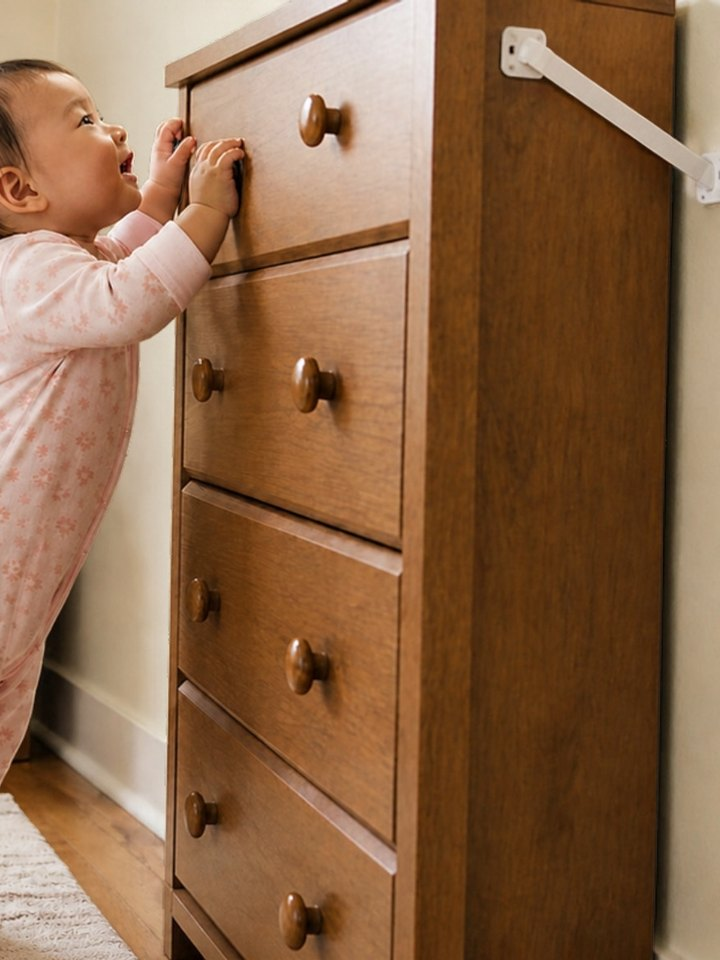
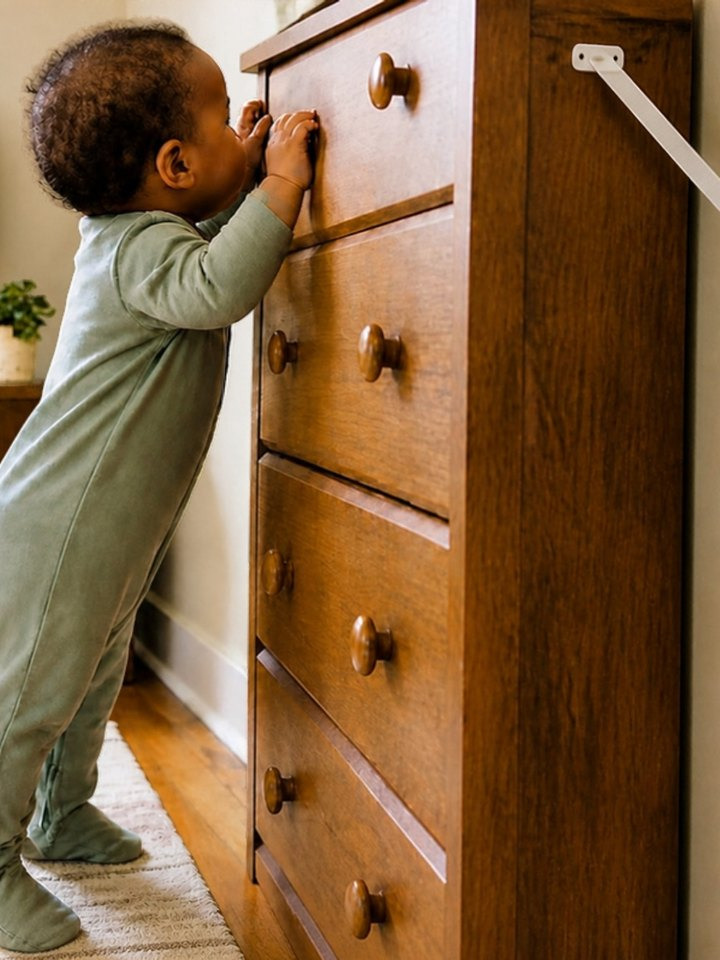
Safety: dresser before/after uses the new neutral baby
Claude-Session: https://claude.ai/code/session_01SSLJSEm38iTtuYbhThgaqn

diff --git a/js/safety-v2.js b/js/safety-v2.js
@@ -252,7 +252,7 @@
       fix: [['plug', 'Sliding outlet covers', 'They snap shut when you unplug'], ['shield', 'Best: tamper-resistant outlets', 'Built-in shutters, nothing to pull out'], ['cord', 'Cords out of reach', 'Lamps and chargers behind furniture']],
       checks: ['Try to open a cover with your fingertips. It should stay shut.', 'Crawl past lamps and chargers. No cord should hang within reach.'] },
     anchor: {
-      ba: [[PH('anchor-before'), 'A baby pulling up on a tall dresser that isn’t fixed to the wall', null], [PH('anchor-after'), 'The same dresser with an anti-tip strap to the wall', ['Anti-tip strap', 84, 14, 'bl']]],
+      ba: [[PH('anchor-before'), 'A baby pulling up on a tall dresser that isn’t fixed to the wall', null], [PH('anchor-after'), 'The same dresser with an anti-tip strap to the wall', ['Anti-tip strap', 86, 22, 'bl']]],
       spotPhoto: [PH('anchor-risk'), 'A baby pulling up on a tall dresser, with a TV on a low stand behind her', [['TV can tip', 17, 40, 'b'], ['Dresser can tip', 90, 74, 'bl']]],
       spotLine: 'Bookcases, and anything tall {s} could pull on, count too.',
       fixPhoto: [PH('anchor-fix'), 'A dresser held to the wall by an anti-tip strap, shown close up', [['Anti-tip strap', 60, 66, 'b']], 'tall'],
